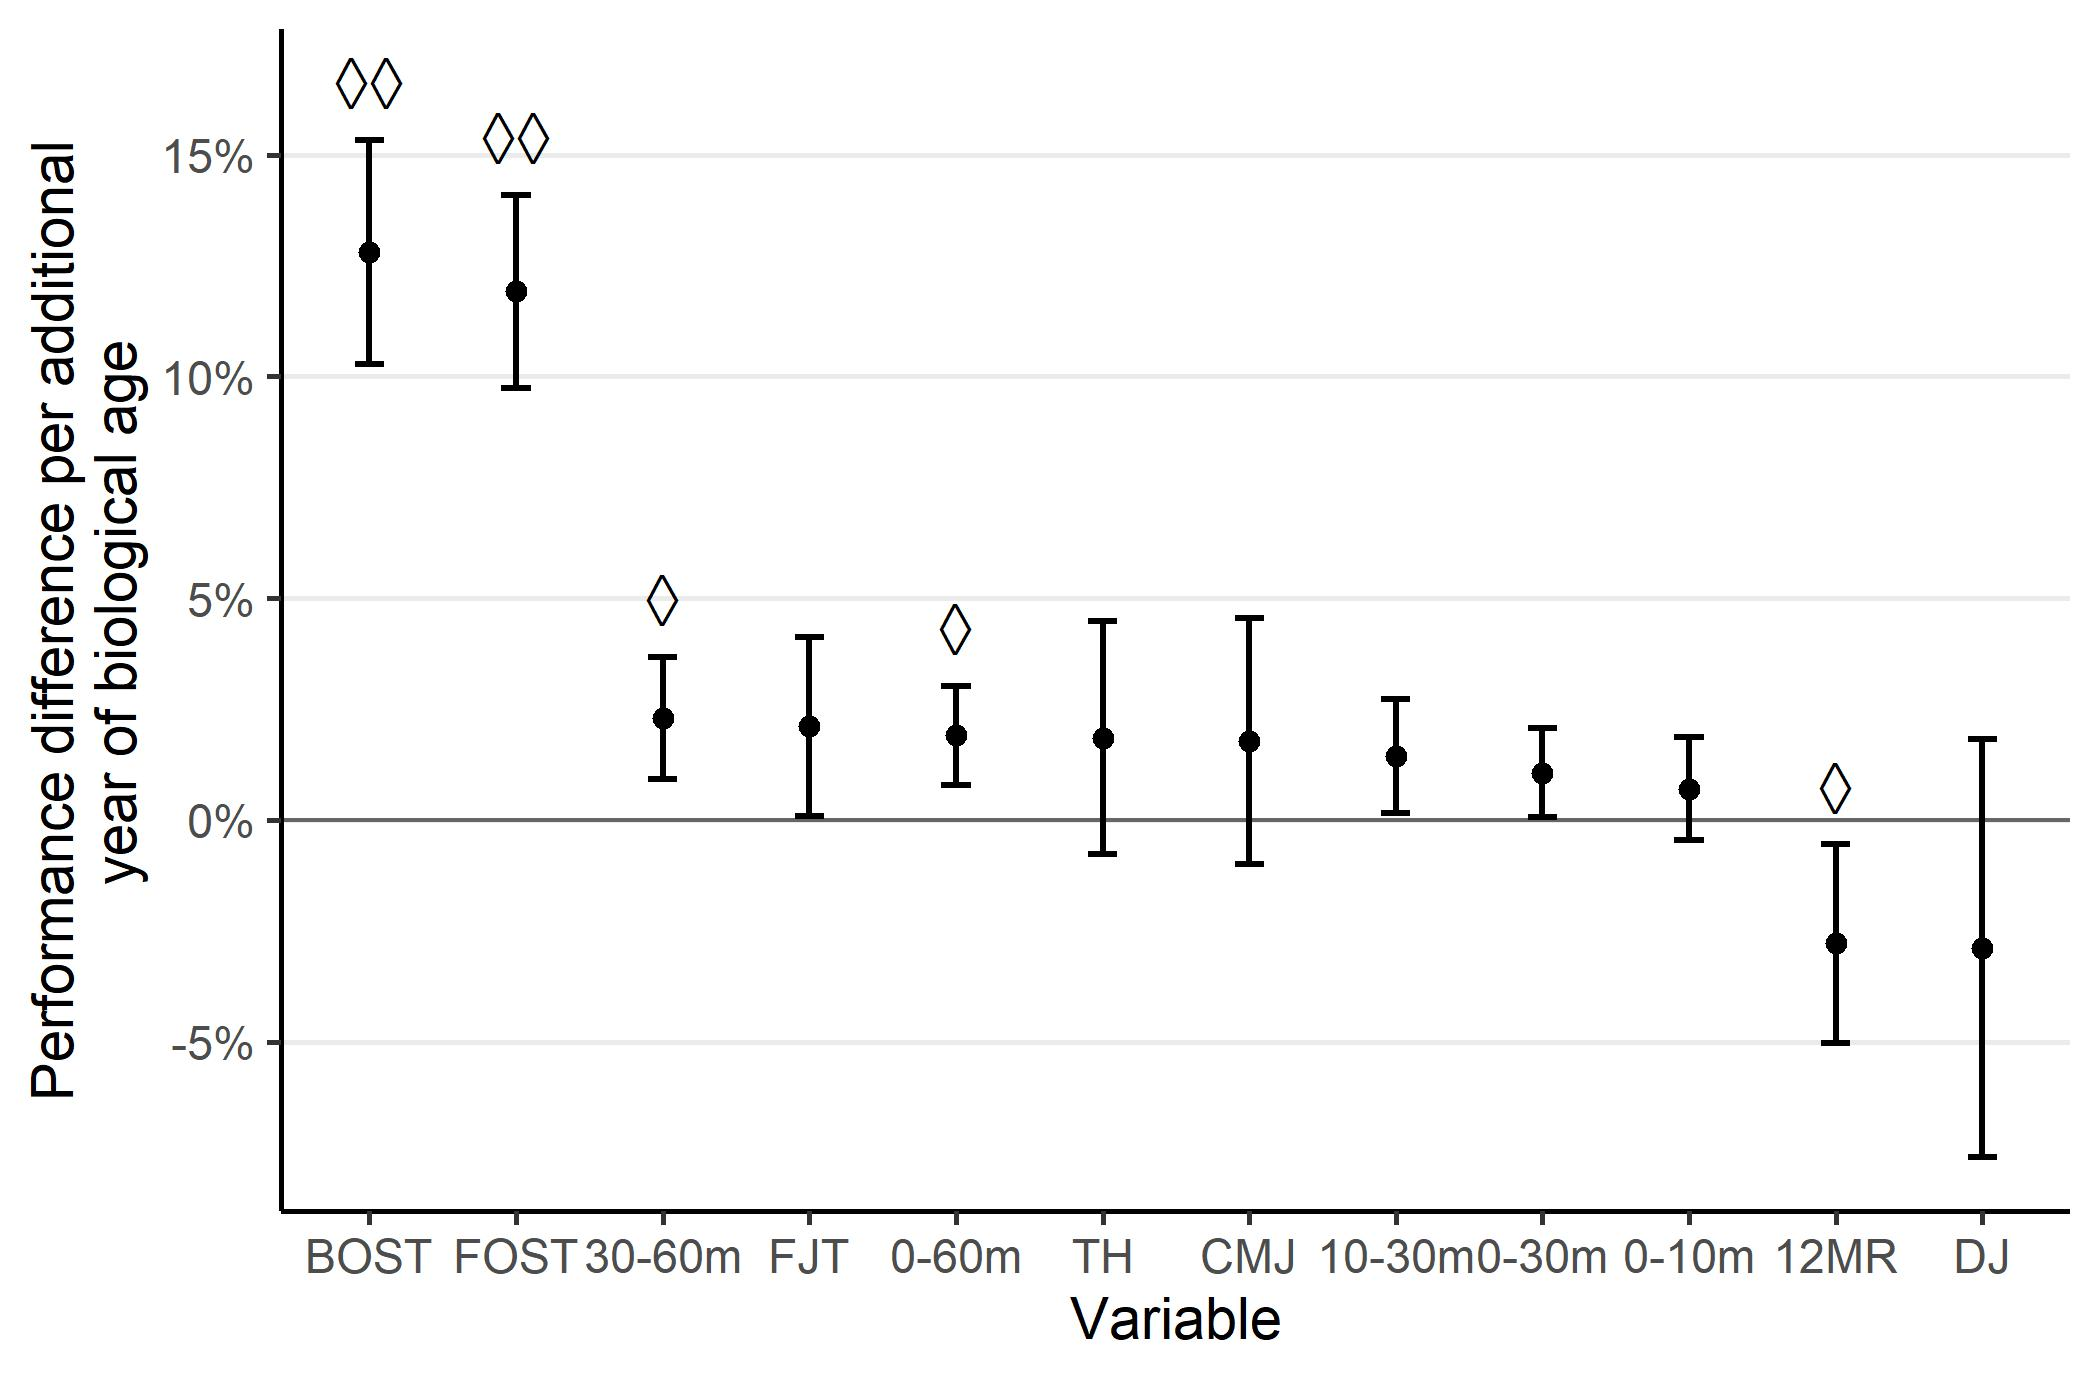
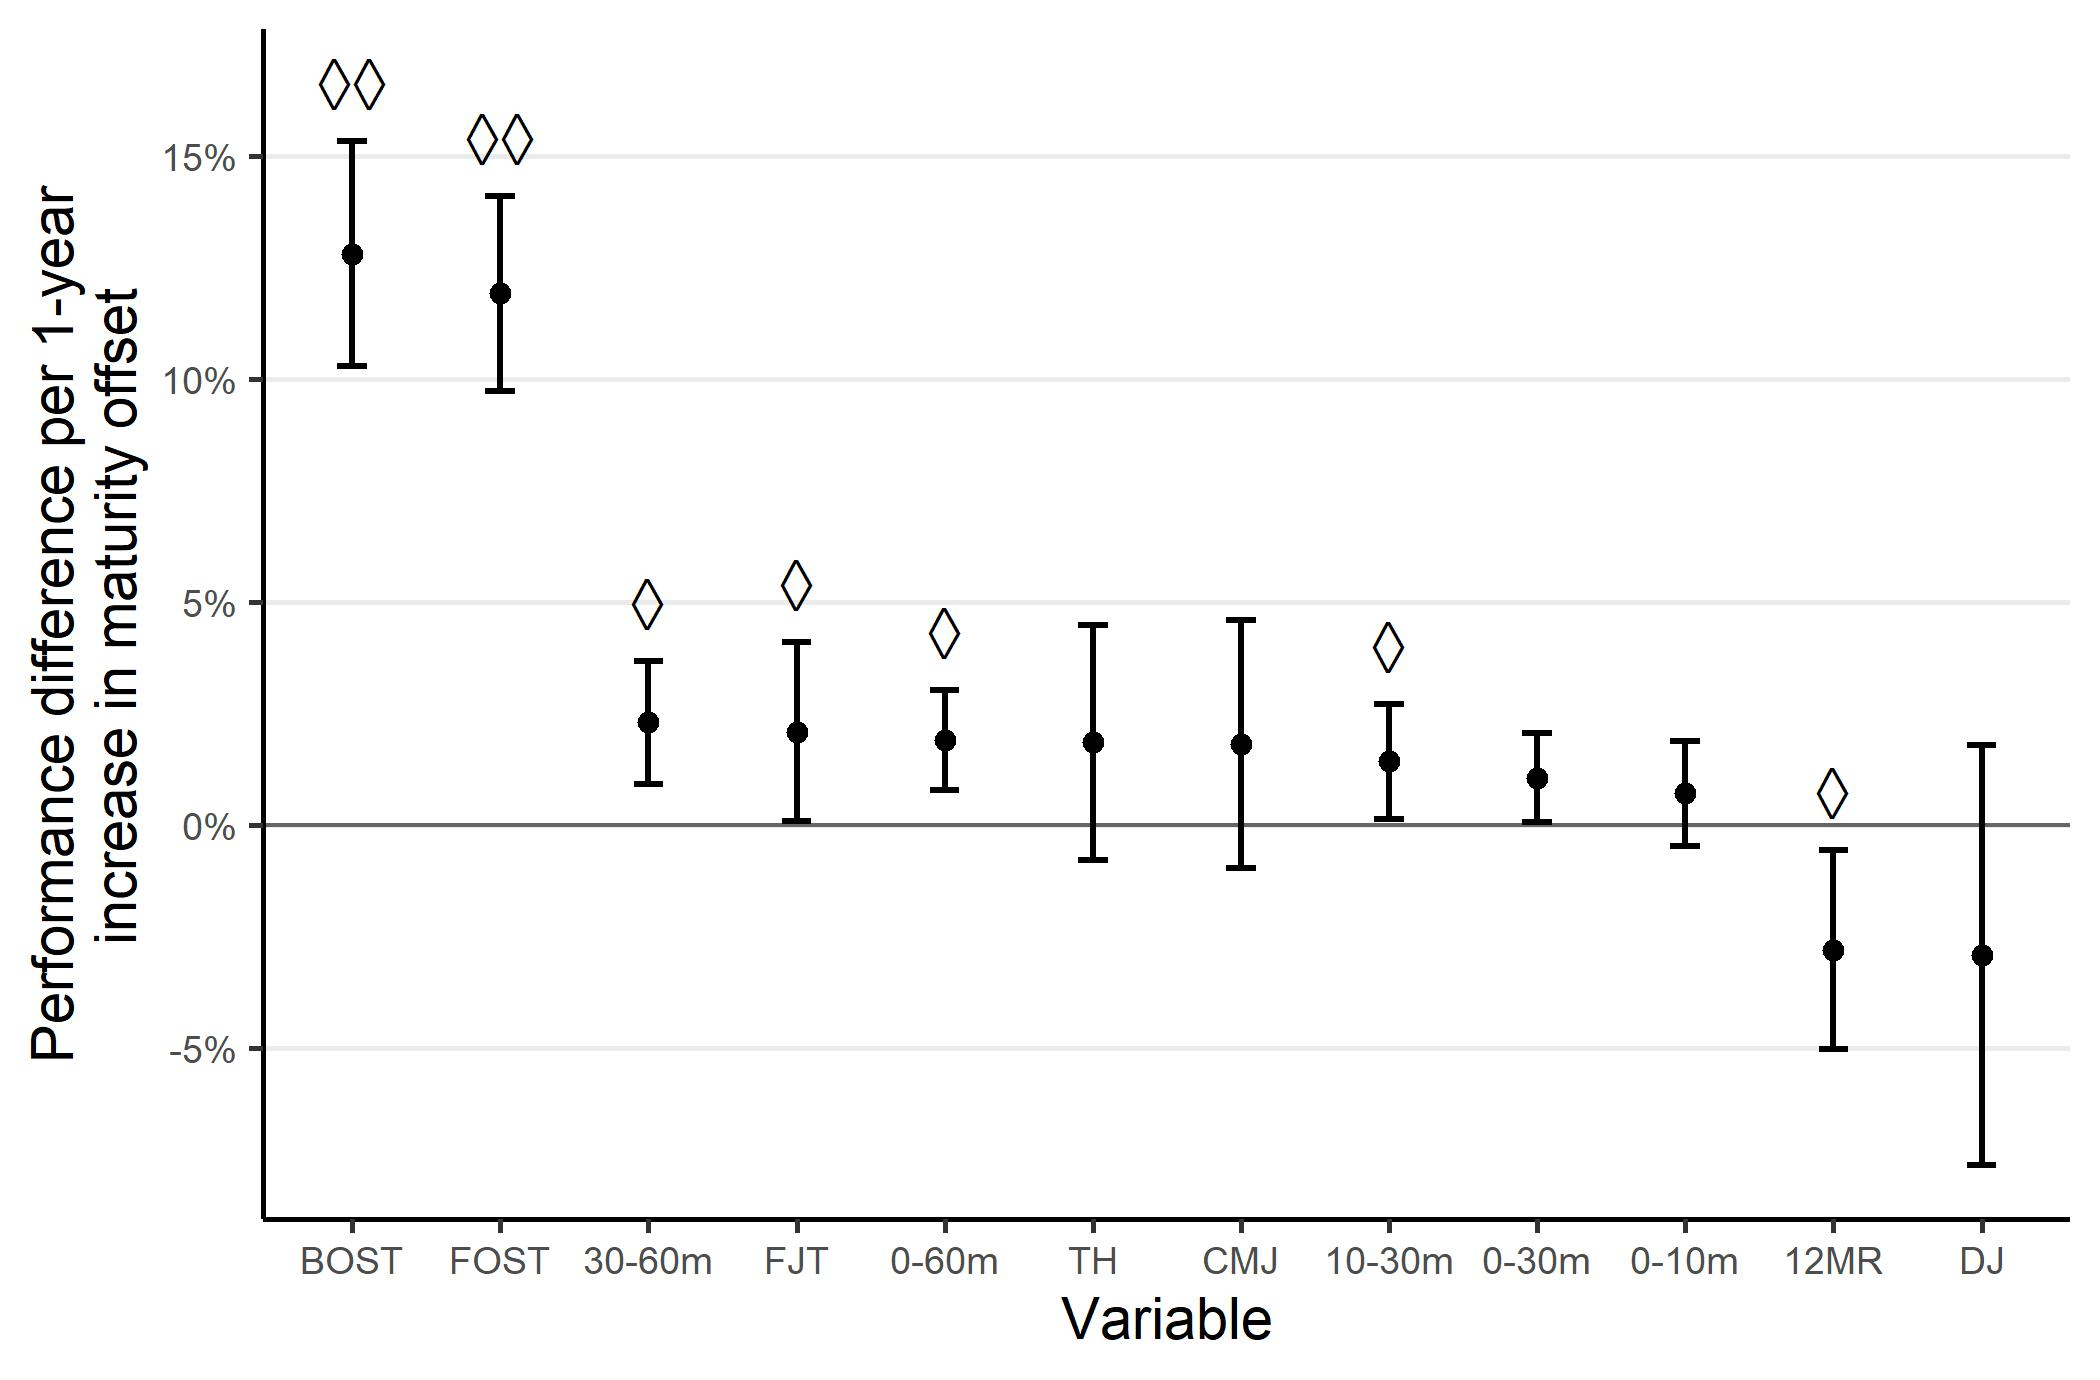
Changes for revision

diff --git a/README.md b/README.md
@@ -1,4 +1,4 @@
-# Project Repository for "Beyond chronological age: Biological age is associated with performance in throwing-related tests in youth track and field throwing athletes"
+# Project Repository for "Beyond chronological age: Maturity offset is associated with performance in throwing-related tests in youth track and field throwing athletes"
 
 [![DOI](https://zenodo.org/badge/DOI/10.5281/zenodo.17591244.svg)](https://doi.org/10.5281/zenodo.17591244)
 
